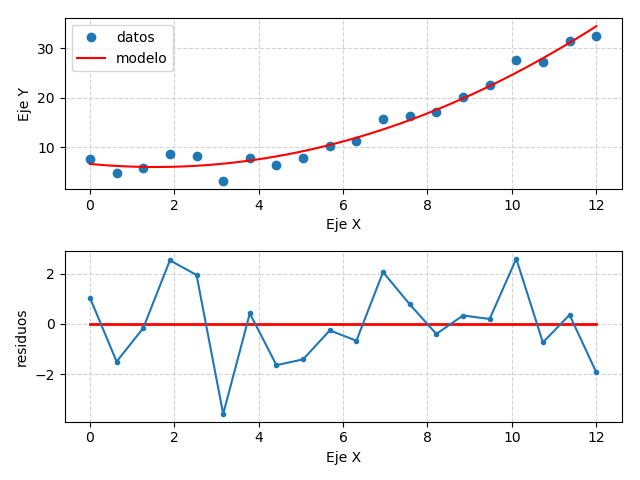
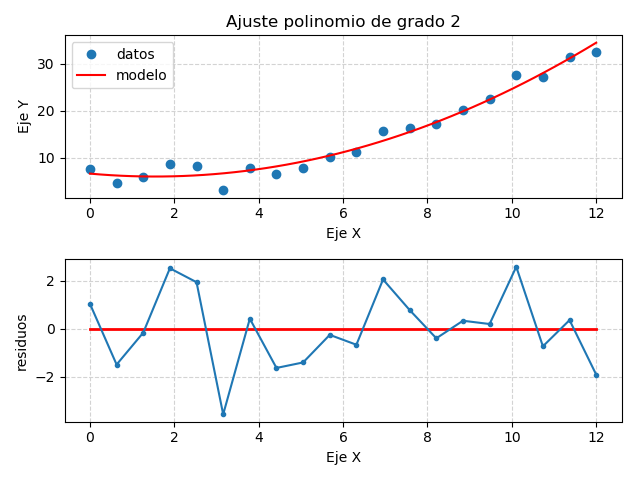
mas updates2

diff --git a/tuto/repo/repo_tutos_ajustes.py b/tuto/repo/repo_tutos_ajustes.py
@@ -155,16 +155,18 @@ datos_y = 0.25*datos_x**2  - 0.5 * datos_x + 4.2 + random.normal(size=len(datos_
 
 ###########################################################
 
-orden_del_polinomio = 2
+grado_del_polinomio = 2
 
 # Cantidad de parámetros
-P = orden_del_polinomio + 1
+P = grado_del_polinomio + 1
 
-# Nímero de datos
+# Número de datos
 N = len(datos_x)
+
+# Grados de libertas (Degrees Of Freedom)
 dof = N-P-1
 
-parametros , covarianza  = polyfit( datos_x, datos_y, orden_del_polinomio, cov=True)
+parametros , covarianza  = polyfit( datos_x, datos_y, grado_del_polinomio, cov=True)
 
 # Cauculamos coordenadas del modelo
 modelo_x    = linspace(0,12)
@@ -173,7 +175,7 @@ modelo_y    = polyval( parametros , modelo_x )
 # Predicción del modelo para los datos_x medidos
 prediccion_modelo = polyval(parametros,datos_x)
 
-
+# Calculos de cantidades estadísticas relevantes
 COV       = covarianza                                # Matriz de Covarianza
 SE        = sqrt(diag( COV  ))                        # Standar Error / Error estandar de los parámetros
 residuos  = datos_y - prediccion_modelo               # diferencia enrte el modelo y los datos
@@ -213,26 +215,6 @@ for i in range(P):
     print('parametro[{:3d}]: '.format(i) , parametros[i], ' ± ' , CI[i])
 
 
-plt.subplot(2,1,1)
-plt.plot( datos_x,  datos_y, 'o',              label='datos')
-plt.plot(modelo_x, modelo_y, '-', color='red', label='modelo')
-
-plt.legend()
-plt.grid(True,linestyle='--',color='lightgray')
-plt.xlabel('Eje X')
-plt.ylabel('Eje Y')
-
-plt.subplot(2,1,2)
-plt.plot( datos_x,  zeros(N),  '-', color='red', linewidth=2 )
-plt.plot( datos_x,  residuos, '.-',              label='residuos')
-
-#plt.legend()
-plt.grid(True,linestyle='--',color='lightgray')
-plt.xlabel('Eje X')
-plt.ylabel('residuos')
-
-plt.tight_layout()
-
 
 #R-squared     0.9709054284131089
 #R-sq_adjusted 0.9654501962405668
@@ -247,7 +229,31 @@ plt.tight_layout()
 #parametro[  2]:  6.685419630405925  ±  2.299536399113428
 
 
+plt.subplot(2,1,1)
+plt.plot( datos_x,  datos_y, 'o',              label='datos')
+plt.plot(modelo_x, modelo_y, '-', color='red', label='modelo')
+
+plt.legend()
+plt.grid(True,linestyle='--',color='lightgray')
+plt.xlabel('Eje X')
+plt.ylabel('Eje Y')
+plt.title('Ajuste polinomio de grado '+ str(grado_del_polinomio))
+
+plt.subplot(2,1,2)
+plt.plot( datos_x,  zeros(N),  '-', color='red', linewidth=2 )
+plt.plot( datos_x,  residuos, '.-',              label='residuos')
+
+#plt.legend()
+plt.grid(True,linestyle='--',color='lightgray')
+plt.xlabel('Eje X')
+plt.ylabel('residuos')
+
+plt.tight_layout()
+
+
+
 # plt.savefig('repo_tutos_ajustes_002.png')
+# plt.savefig('repo_tutos_ajustes_002_lineal.png')
 
 
 

diff --git a/tuto/repo/repo_tutos_ajustes.md b/tuto/repo/repo_tutos_ajustes.md
@@ -178,6 +178,8 @@ y de cómo extraer a información estadística del ajuste más relevante
 
 ![grafico](../repo_tutos_ajustes_002.png "repo_tutos_ajustes_002.png")
 
+![grafico](../repo_tutos_ajustes_002_lineal.png "repo_tutos_ajustes_002_lineal.png")
+
 <a data-toggle="collapse" href="#desplegable002" aria-expanded="false" aria-controls="desplegable002">ver código<span class="caret"></span></a>
 
 <div id="desplegable002" class="collapse" markdown="1" style="padding: 10px; border: 1px solid gray; border-radius: 5px;">
@@ -197,16 +199,18 @@ datos_y = 0.25*datos_x**2  - 0.5 * datos_x + 4.2 + random.normal(size=len(datos_
 
 ###########################################################
 
-orden_del_polinomio = 2
+grado_del_polinomio = 2
 
 # Cantidad de parámetros
-P = orden_del_polinomio + 1
+P = grado_del_polinomio + 1
 
-# Nímero de datos
+# Número de datos
 N = len(datos_x)
+
+# Grados de libertas (Degrees Of Freedom)
 dof = N-P-1
 
-parametros , covarianza  = polyfit( datos_x, datos_y, orden_del_polinomio, cov=True)
+parametros , covarianza  = polyfit( datos_x, datos_y, grado_del_polinomio, cov=True)
 
 # Cauculamos coordenadas del modelo
 modelo_x    = linspace(0,12)
@@ -215,7 +219,7 @@ modelo_y    = polyval( parametros , modelo_x )
 # Predicción del modelo para los datos_x medidos
 prediccion_modelo = polyval(parametros,datos_x)
 
-
+# Calculos de cantidades estadísticas relevantes
 COV       = covarianza                                # Matriz de Covarianza
 SE        = sqrt(diag( COV  ))                        # Standar Error / Error estandar de los parámetros
 residuos  = datos_y - prediccion_modelo               # diferencia enrte el modelo y los datos
@@ -255,26 +259,6 @@ for i in range(P):
     print('parametro[{:3d}]: '.format(i) , parametros[i], ' ± ' , CI[i])
 
 
-plt.subplot(2,1,1)
-plt.plot( datos_x,  datos_y, 'o',              label='datos')
-plt.plot(modelo_x, modelo_y, '-', color='red', label='modelo')
-
-plt.legend()
-plt.grid(True,linestyle='--',color='lightgray')
-plt.xlabel('Eje X')
-plt.ylabel('Eje Y')
-
-plt.subplot(2,1,2)
-plt.plot( datos_x,  zeros(N),  '-', color='red', linewidth=2 )
-plt.plot( datos_x,  residuos, '.-',              label='residuos')
-
-#plt.legend()
-plt.grid(True,linestyle='--',color='lightgray')
-plt.xlabel('Eje X')
-plt.ylabel('residuos')
-
-plt.tight_layout()
-
 
 #R-squared     0.9709054284131089
 #R-sq_adjusted 0.9654501962405668
@@ -289,7 +273,31 @@ plt.tight_layout()
 #parametro[  2]:  6.685419630405925  ±  2.299536399113428
 
 
+plt.subplot(2,1,1)
+plt.plot( datos_x,  datos_y, 'o',              label='datos')
+plt.plot(modelo_x, modelo_y, '-', color='red', label='modelo')
+
+plt.legend()
+plt.grid(True,linestyle='--',color='lightgray')
+plt.xlabel('Eje X')
+plt.ylabel('Eje Y')
+plt.title('Ajuste polinomio de grado '+ str(grado_del_polinomio))
+
+plt.subplot(2,1,2)
+plt.plot( datos_x,  zeros(N),  '-', color='red', linewidth=2 )
+plt.plot( datos_x,  residuos, '.-',              label='residuos')
+
+#plt.legend()
+plt.grid(True,linestyle='--',color='lightgray')
+plt.xlabel('Eje X')
+plt.ylabel('residuos')
+
+plt.tight_layout()
+
+
+
 # plt.savefig('repo_tutos_ajustes_002.png')
+# plt.savefig('repo_tutos_ajustes_002_lineal.png')
 ```
 </div>
 
